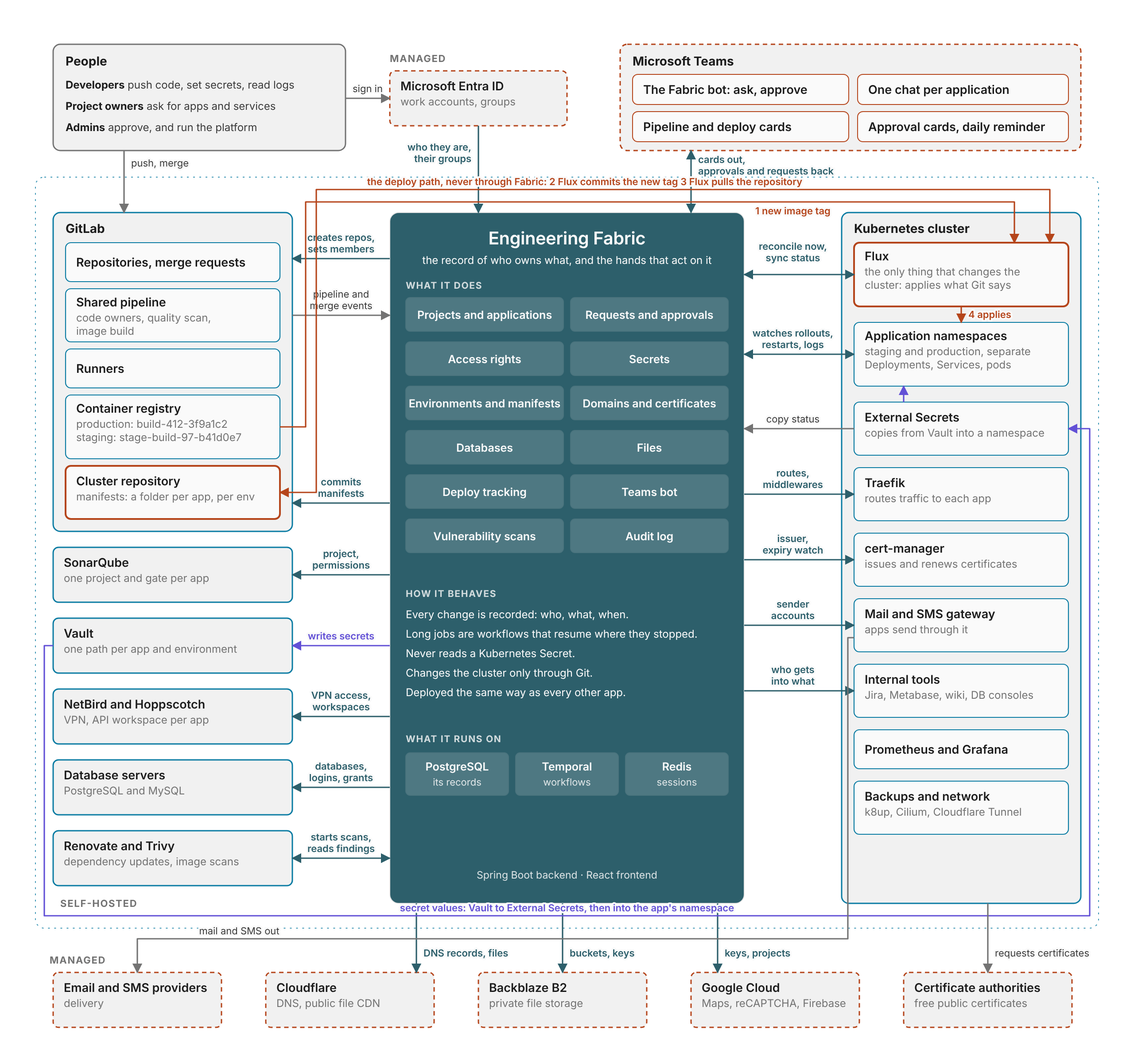
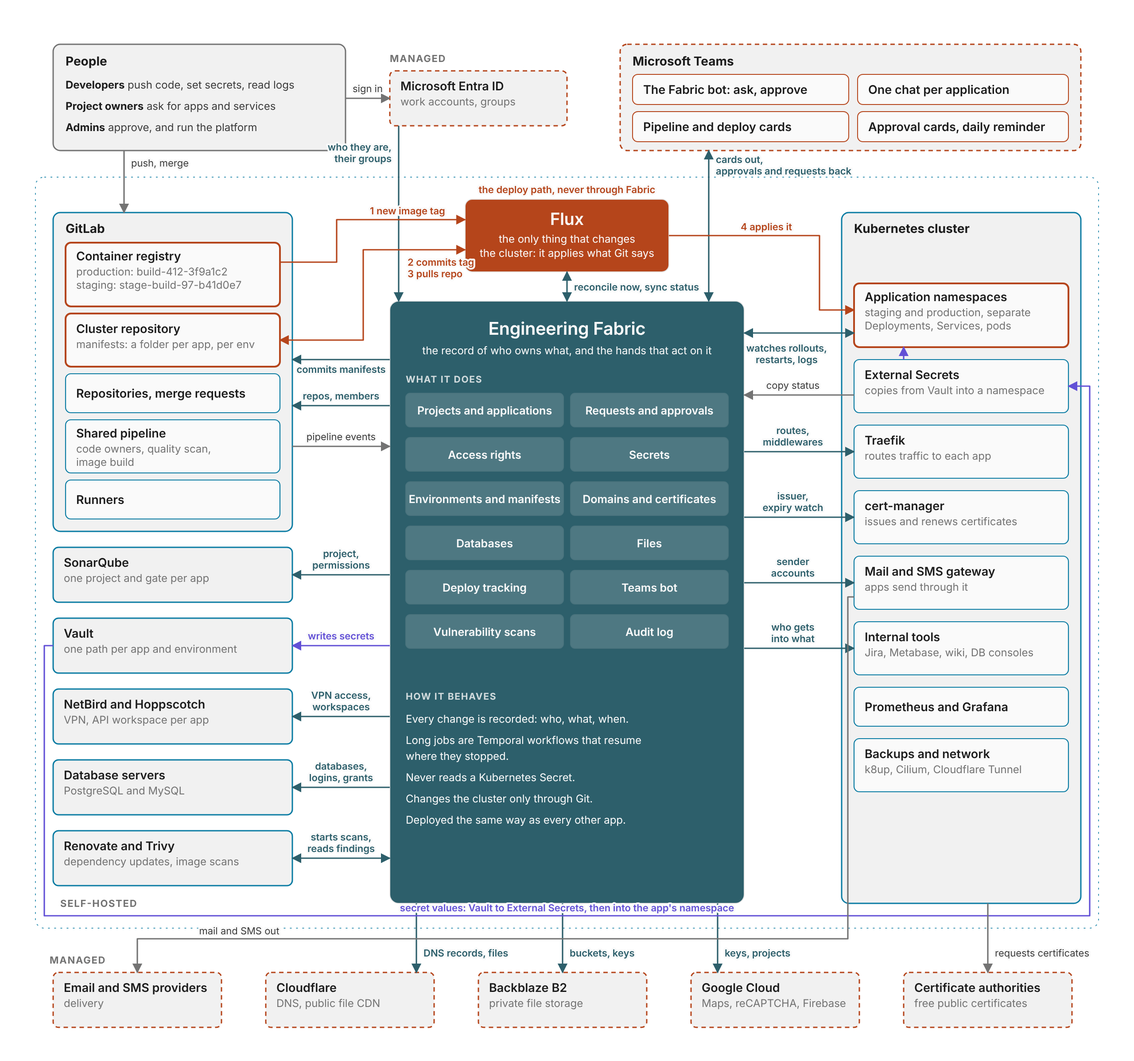
Writing: Flux as its own node between Git and the cluster; drop Fabric's stack from the map
Claude-Session: https://claude.ai/code/session_01SaRwWq1zZFY1QVVTNDxtey

Changed region(s): [[0.0625, 0.1235, 0.9375, 0.7721]]

diff --git a/blog/how-we-deploy-at-cb/index.html b/blog/how-we-deploy-at-cb/index.html
@@ -38,11 +38,11 @@
 <ul>
 <li>The dotted outline is what we host ourselves. Everything outside it, above and below, is a managed service.</li>
 <li>Teal arrows are Fabric doing something: creating a repository, writing a secret, committing a manifest, reading a status. The label says what.</li>
-<li>The rust line is the deploy path. It runs from GitLab's registry to Flux and into the cluster, and it does not touch Fabric at all.</li>
+<li>The rust line is the deploy path, numbered in order. Flux sits on it between GitLab and the cluster: it sees a new image in the registry, commits the tag to the cluster repository, pulls that repository, and applies it. None of that touches Fabric.</li>
 <li>The purple line is the only route a secret value takes: Vault, External Secrets, the application's namespace.</li>
 </ul>
 
-<figure class='dg arch'><div class='dg-wrap'><svg viewBox='0 0 1240 1158' role='img' aria-labelledby='archt archd'><title id='archt'>Architecture: Engineering Fabric and the systems around it</title><desc id='archd'>Developers, project owners and admins sign in through Microsoft Entra ID and are reached in Microsoft Teams. Engineering Fabric, in the centre, creates repositories and sets members in GitLab, creates SonarQube projects, writes secrets to Vault, creates databases, commits manifests to the cluster repository, watches rollouts in Kubernetes, and manages DNS, file storage and API keys at Cloudflare, Backblaze B2 and Google Cloud. Deployments go from GitLab's registry to Flux to the cluster without passing through Fabric. Secret values go from Vault to External Secrets to the application's namespace.</desc><defs><marker id='arch-ink' class='mk-ink' viewBox='0 0 10 10' refX='9' refY='5' markerWidth='7' markerHeight='7' orient='auto-start-reverse'><path d='M0 0L10 5L0 10z'/></marker><marker id='arch-fab' class='mk-fab' viewBox='0 0 10 10' refX='9' refY='5' markerWidth='7' markerHeight='7' orient='auto-start-reverse'><path d='M0 0L10 5L0 10z'/></marker><marker id='arch-dep' class='mk-dep' viewBox='0 0 10 10' refX='9' refY='5' markerWidth='7' markerHeight='7' orient='auto-start-reverse'><path d='M0 0L10 5L0 10z'/></marker><marker id='arch-sec' class='mk-sec' viewBox='0 0 10 10' refX='9' refY='5' markerWidth='7' markerHeight='7' orient='auto-start-reverse'><path d='M0 0L10 5L0 10z'/></marker></defs><rect class='region' x='20' y='180' width='1200' height='848' rx='10'/><text class='grp' x='48' y='1004'>Self-hosted</text><text class='grp' x='420' y='50'>Managed</text><text class='grp' x='36' y='1068'>Managed</text><g class='actor'><rect class='n' x='40' y='30' width='330' height='120' rx='8'/><text class='zt' x='54' y='54'>People</text><text class='pl' x='54' y='80'><tspan class='pb'>Developers</tspan> push code, set secrets, read logs</text><text class='pl' x='54' y='104'><tspan class='pb'>Project owners</tspan> ask for apps and services</text><text class='pl' x='54' y='128'><tspan class='pb'>Admins</tspan> approve, and run the platform</text></g><g class='rent'><rect class='n' x='420' y='60' width='200' height='62' rx='6'/><text class='t' x='432' y='82'>Microsoft Entra ID</text><text x='432' y='99'>work accounts, groups</text></g><g class='rent'><rect class='n' x='680' y='30' width='520' height='120' rx='8'/><text class='zt' x='694' y='54'>Microsoft Teams</text></g><g class='rent in'><rect class='n' x='694' y='64' width='244' height='34' rx='6'/><text class='t' x='706' y='86'>The Fabric bot: ask, approve</text></g><g class='rent in'><rect class='n' x='948' y='64' width='238' height='34' rx='6'/><text class='t' x='960' y='86'>One chat per application</text></g><g class='rent in'><rect class='n' x='694' y='106' width='244' height='34' rx='6'/><text class='t' x='706' y='128'>Pipeline and deploy cards</text></g><g class='rent in'><rect class='n' x='948' y='106' width='238' height='34' rx='6'/><text class='t' x='960' y='128'>Approval cards, daily reminder</text></g><rect class='zone' x='40' y='220' width='270' height='360' rx='8'/><text class='zt' x='54' y='243'>GitLab</text><g class='own in'><rect class='n' x='54' y='254' width='242' height='44' rx='6'/><text class='t' x='66' y='281'>Repositories, merge requests</text></g><g class='own in'><rect class='n' x='54' y='306' width='242' height='60' rx='6'/><text class='t' x='66' y='326'>Shared pipeline</text><text x='66' y='343'>code owners, quality scan,</text><text x='66' y='358'>image build</text></g><g class='own in'><rect class='n' x='54' y='374' width='242' height='44' rx='6'/><text class='t' x='66' y='401'>Runners</text></g><g class='own in'><rect class='n' x='54' y='426' width='242' height='72' rx='6'/><text class='t' x='66' y='446'>Container registry</text><text x='66' y='463'>production: build-412-3f9a1c2</text><text x='66' y='478'>staging: stage-build-97-b41d0e7</text></g><g class='own in dep'><rect class='n' x='54' y='506' width='242' height='60' rx='6'/><text class='t' x='66' y='528'>Cluster repository</text><text x='66' y='545'>manifests: a folder per app, per env</text></g><g class='own'><rect class='n' x='40' y='598' width='270' height='62' rx='6'/><text class='t' x='52' y='620'>SonarQube</text><text x='52' y='637'>one project and gate per app</text></g><g class='own'><rect class='n' x='40' y='678' width='270' height='62' rx='6'/><text class='t' x='52' y='700'>Vault</text><text x='52' y='717'>one path per app and environment</text></g><g class='own'><rect class='n' x='40' y='758' width='270' height='62' rx='6'/><text class='t' x='52' y='780'>NetBird and Hoppscotch</text><text x='52' y='797'>VPN, API workspace per app</text></g><g class='own'><rect class='n' x='40' y='838' width='270' height='62' rx='6'/><text class='t' x='52' y='860'>Database servers</text><text x='52' y='877'>PostgreSQL and MySQL</text></g><g class='own'><rect class='n' x='40' y='918' width='270' height='62' rx='6'/><text class='t' x='52' y='940'>Renovate and Trivy</text><text x='52' y='957'>dependency updates, image scans</text></g><g class='hub'><rect x='420' y='220' width='400' height='780' rx='10'/><text class='t' x='620' y='256' text-anchor='middle'>Engineering Fabric</text><text x='620' y='278' text-anchor='middle'>the record of who owns what, and the hands that act on it</text><text class='hg' x='438' y='306'>What it does</text><rect class='chip' x='438' y='316' width='178' height='38' rx='5'/><text class='ct' x='527' y='340' text-anchor='middle'>Projects and applications</text><rect class='chip' x='624' y='316' width='178' height='38' rx='5'/><text class='ct' x='713' y='340' text-anchor='middle'>Requests and approvals</text><rect class='chip' x='438' y='366' width='178' height='38' rx='5'/><text class='ct' x='527' y='390' text-anchor='middle'>Access rights</text><rect class='chip' x='624' y='366' width='178' height='38' rx='5'/><text class='ct' x='713' y='390' text-anchor='middle'>Secrets</text><rect class='chip' x='438' y='416' width='178' height='38' rx='5'/><text class='ct' x='527' y='440' text-anchor='middle'>Environments and manifests</text><rect class='chip' x='624' y='416' width='178' height='38' rx='5'/><text class='ct' x='713' y='440' text-anchor='middle'>Domains and certificates</text><rect class='chip' x='438' y='466' width='178' height='38' rx='5'/><text class='ct' x='527' y='490' text-anchor='middle'>Databases</text><rect class='chip' x='624' y='466' width='178' height='38' rx='5'/><text class='ct' x='713' y='490' text-anchor='middle'>Files</text><rect class='chip' x='438' y='516' width='178' height='38' rx='5'/><text class='ct' x='527' y='540' text-anchor='middle'>Deploy tracking</text><rect class='chip' x='624' y='516' width='178' height='38' rx='5'/><text class='ct' x='713' y='540' text-anchor='middle'>Teams bot</text><rect class='chip' x='438' y='566' width='178' height='38' rx='5'/><text class='ct' x='527' y='590' text-anchor='middle'>Vulnerability scans</text><rect class='chip' x='624' y='566' width='178' height='38' rx='5'/><text class='ct' x='713' y='590' text-anchor='middle'>Audit log</text><text class='hg' x='438' y='654'>How it behaves</text><text class='hn' x='438' y='678'>Every change is recorded: who, what, when.</text><text class='hn' x='438' y='700'>Long jobs are workflows that resume where they stopped.</text><text class='hn' x='438' y='722'>Never reads a Kubernetes Secret.</text><text class='hn' x='438' y='744'>Changes the cluster only through Git.</text><text class='hn' x='438' y='766'>Deployed the same way as every other app.</text><text class='hg' x='438' y='818'>What it runs on</text><rect class='chip' x='438' y='830' width='116' height='48' rx='5'/><text class='ct' x='496' y='850' text-anchor='middle'>PostgreSQL</text><text class='cs' x='496' y='867' text-anchor='middle'>its records</text><rect class='chip' x='562' y='830' width='116' height='48' rx='5'/><text class='ct' x='620' y='850' text-anchor='middle'>Temporal</text><text class='cs' x='620' y='867' text-anchor='middle'>workflows</text><rect class='chip' x='686' y='830' width='116' height='48' rx='5'/><text class='ct' x='744' y='850' text-anchor='middle'>Redis</text><text class='cs' x='744' y='867' text-anchor='middle'>sessions</text><text class='hs' x='620' y='972' text-anchor='middle'>Spring Boot backend · React frontend</text></g><rect class='zone' x='930' y='220' width='270' height='780' rx='8'/><text class='zt' x='944' y='243'>Kubernetes cluster</text><g class='own in dep'><rect class='n' x='944' y='254' width='242' height='72' rx='6'/><text class='t' x='956' y='274'>Flux</text><text x='956' y='291'>the only thing that changes the</text><text x='956' y='306'>cluster: applies what Git says</text></g><g class='own in'><rect class='n' x='944' y='344' width='242' height='72' rx='6'/><text class='t' x='956' y='364'>Application namespaces</text><text x='956' y='381'>staging and production, separate</text><text x='956' y='396'>Deployments, Services, pods</text></g><g class='own in'><rect class='n' x='944' y='434' width='242' height='60' rx='6'/><text class='t' x='956' y='456'>External Secrets</text><text x='956' y='473'>copies from Vault into a namespace</text></g><g class='own in'><rect class='n' x='944' y='508' width='242' height='60' rx='6'/><text class='t' x='956' y='530'>Traefik</text><text x='956' y='547'>routes traffic to each app</text></g><g class='own in'><rect class='n' x='944' y='582' width='242' height='60' rx='6'/><text class='t' x='956' y='604'>cert-manager</text><text x='956' y='621'>issues and renews certificates</text></g><g class='own in'><rect class='n' x='944' y='656' width='242' height='60' rx='6'/><text class='t' x='956' y='678'>Mail and SMS gateway</text><text x='956' y='695'>apps send through it</text></g><g class='own in'><rect class='n' x='944' y='730' width='242' height='60' rx='6'/><text class='t' x='956' y='752'>Internal tools</text><text x='956' y='769'>Jira, Metabase, wiki, DB consoles</text></g><g class='own in'><rect class='n' x='944' y='804' width='242' height='44' rx='6'/><text class='t' x='956' y='831'>Prometheus and Grafana</text></g><g class='own in'><rect class='n' x='944' y='862' width='242' height='60' rx='6'/><text class='t' x='956' y='884'>Backups and network</text><text x='956' y='901'>k8up, Cilium, Cloudflare Tunnel</text></g><g class='rent'><rect class='n' x='40' y='1078' width='190' height='62' rx='6'/><text class='t' x='52' y='1100'>Email and SMS providers</text><text x='52' y='1117'>delivery</text></g><g class='rent'><rect class='n' x='280' y='1078' width='190' height='62' rx='6'/><text class='t' x='292' y='1100'>Cloudflare</text><text x='292' y='1117'>DNS, public file CDN</text></g><g class='rent'><rect class='n' x='520' y='1078' width='190' height='62' rx='6'/><text class='t' x='532' y='1100'>Backblaze B2</text><text x='532' y='1117'>private file storage</text></g><g class='rent'><rect class='n' x='760' y='1078' width='190' height='62' rx='6'/><text class='t' x='772' y='1100'>Google Cloud</text><text x='772' y='1117'>Maps, reCAPTCHA, Firebase</text></g><g class='rent'><rect class='n' x='1000' y='1078' width='190' height='62' rx='6'/><text class='t' x='1012' y='1100'>Certificate authorities</text><text x='1012' y='1117'>free public certificates</text></g><path class='a a-ink' d='M120 150V220' marker-end='url(#arch-ink)'/><text class='al al-ink' x='128' y='168' text-anchor='start'>push, merge</text><path class='a a-ink' d='M370 91H420' marker-end='url(#arch-ink)'/><text class='al al-ink' x='395' y='84' text-anchor='middle'>sign in</text><path class='a a-fab' d='M520 122V220' marker-end='url(#arch-fab)'/><text class='al al-fab' x='512' y='150' text-anchor='end'>who they are,</text><text class='al al-fab' x='512' y='163' text-anchor='end'>their groups</text><path class='a a-fab' d='M760 150V220' marker-end='url(#arch-fab)' marker-start='url(#arch-fab)'/><text class='al al-fab' x='768' y='164' text-anchor='start'>cards out,</text><text class='al al-fab' x='768' y='177' text-anchor='start'>approvals and requests back</text><path class='a a-fab' d='M420 272H310' marker-end='url(#arch-fab)'/><text class='al al-fab' x='365' y='252' text-anchor='middle'>creates repos,</text><text class='al al-fab' x='365' y='265' text-anchor='middle'>sets members</text><path class='a a-ink' d='M310 336H420' marker-end='url(#arch-ink)'/><text class='al al-ink' x='365' y='316' text-anchor='middle'>pipeline and</text><text class='al al-ink' x='365' y='329' text-anchor='middle'>merge events</text><path class='a a-fab' d='M420 548H310' marker-end='url(#arch-fab)'/><text class='al al-fab' x='365' y='528' text-anchor='middle'>commits</text><text class='al al-fab' x='365' y='541' text-anchor='middle'>manifests</text><path class='a a-fab' d='M420 629H310' marker-end='url(#arch-fab)'/><text class='al al-fab' x='365' y='609' text-anchor='middle'>project,</text><text class='al al-fab' x='365' y='622' text-anchor='middle'>permissions</text><path class='a a-sec' d='M420 709H310' marker-end='url(#arch-sec)'/><text class='al al-sec' x='365' y='702' text-anchor='middle'>writes secrets</text><path class='a a-fab' d='M420 789H310' marker-end='url(#arch-fab)'/><text class='al al-fab' x='365' y='769' text-anchor='middle'>VPN access,</text><text class='al al-fab' x='365' y='782' text-anchor='middle'>workspaces</text><path class='a a-fab' d='M420 869H310' marker-end='url(#arch-fab)'/><text class='al al-fab' x='365' y='849' text-anchor='middle'>databases,</text><text class='al al-fab' x='365' y='862' text-anchor='middle'>logins, grants</text><path class='a a-fab' d='M420 949H310' marker-end='url(#arch-fab)' marker-start='url(#arch-fab)'/><text class='al al-fab' x='365' y='929' text-anchor='middle'>starts scans,</text><text class='al al-fab' x='365' y='942' text-anchor='middle'>reads findings</text><path class='a a-fab' d='M820 290H944' marker-end='url(#arch-fab)' marker-start='url(#arch-fab)'/><text class='al al-fab' x='875' y='262' text-anchor='middle'>reconcile now,</text><text class='al al-fab' x='875' y='275' text-anchor='middle'>sync status</text><path class='a a-fab' d='M820 380H944' marker-end='url(#arch-fab)' marker-start='url(#arch-fab)'/><text class='al al-fab' x='875' y='360' text-anchor='middle'>watches rollouts,</text><text class='al al-fab' x='875' y='373' text-anchor='middle'>restarts, logs</text><path class='a a-ink' d='M944 464H820' marker-end='url(#arch-ink)'/><text class='al al-ink' x='875' y='457' text-anchor='middle'>copy status</text><path class='a a-fab' d='M820 538H944' marker-end='url(#arch-fab)'/><text class='al al-fab' x='875' y='518' text-anchor='middle'>routes,</text><text class='al al-fab' x='875' y='531' text-anchor='middle'>middlewares</text><path class='a a-fab' d='M820 612H944' marker-end='url(#arch-fab)'/><text class='al al-fab' x='875' y='592' text-anchor='middle'>issuer,</text><text class='al al-fab' x='875' y='605' text-anchor='middle'>expiry watch</text><path class='a a-fab' d='M820 686H944' marker-end='url(#arch-fab)'/><text class='al al-fab' x='875' y='666' text-anchor='middle'>sender</text><text class='al al-fab' x='875' y='679' text-anchor='middle'>accounts</text><path class='a a-fab' d='M820 760H944' marker-end='url(#arch-fab)'/><text class='al al-fab' x='875' y='740' text-anchor='middle'>who gets</text><text class='al al-fab' x='875' y='753' text-anchor='middle'>into what</text><path class='a a-fab' d='M450 1000V1078' marker-end='url(#arch-fab)'/><text class='al al-fab' x='458' y='1060' text-anchor='start'>DNS records, files</text><path class='a a-fab' d='M615 1000V1078' marker-end='url(#arch-fab)'/><text class='al al-fab' x='623' y='1060' text-anchor='start'>buckets, keys</text><path class='a a-fab' d='M790 1000V1078' marker-end='url(#arch-fab)'/><text class='al al-fab' x='798' y='1060' text-anchor='start'>keys, projects</text><path class='a a-dep' d='M296 462H325V208H1125V254' marker-end='url(#arch-dep)'/><path class='a a-dep' d='M296 536H337V194H1165V254' marker-end='url(#arch-dep)' marker-start='url(#arch-dep)'/><text class='al al-dep' x='875' y='222' text-anchor='middle'>1 new image tag</text><text class='al al-dep' x='640' y='189' text-anchor='middle'>the deploy path, never through Fabric:   2 Flux commits the new tag   3 Flux pulls the repository</text><path class='a a-dep' d='M1065 326V344' marker-end='url(#arch-dep)'/><text class='al al-dep' x='1073' y='339' text-anchor='start'>4 applies</text><path class='a a-sec' d='M40 709H30V1014H1210V464H1186' marker-end='url(#arch-sec)'/><text class='al al-sec' x='620' y='1009' text-anchor='middle'>secret values: Vault to External Secrets, then into the app&#x27;s namespace</text><path class='a a-sec' d='M1000 434V416' marker-end='url(#arch-sec)'/><path class='a a-ink' d='M1095 1000V1078' marker-end='url(#arch-ink)'/><text class='al al-ink' x='1103' y='1060' text-anchor='start'>requests certificates</text><path class='a a-ink' d='M944 700H937V1040H135V1078' marker-end='url(#arch-ink)'/><text class='al al-ink' x='250' y='1035' text-anchor='middle'>mail and SMS out</text></svg></div><div class='legend'><span><i class='own'></i>self-hosted</span><span><i class='rent'></i>managed</span><span><i class='fab'></i>Fabric makes a change or reads a status</span><span><i class='dep'></i>the deploy path</span><span><i class='sec'></i>secret values</span></div><p class='full'><a href='img/architecture.png'>Open the diagram full size</a></p><figcaption><span class='fignum'>Figure 1.</span> Engineering Fabric and everything it connects. The twelve tiles inside Fabric are its own modules; each one is covered below.</figcaption></figure>
+<figure class='dg arch'><div class='dg-wrap'><svg viewBox='0 0 1240 1158' role='img' aria-labelledby='archt archd'><title id='archt'>Architecture: Engineering Fabric and the systems around it</title><desc id='archd'>Developers, project owners and admins sign in through Microsoft Entra ID and are reached in Microsoft Teams. Engineering Fabric, in the centre, creates repositories and sets members in GitLab, creates SonarQube projects, writes secrets to Vault, creates databases, commits manifests to the cluster repository, watches rollouts in Kubernetes, and manages DNS, file storage and API keys at Cloudflare, Backblaze B2 and Google Cloud. Deployments go from GitLab's registry to Flux to the cluster without passing through Fabric. Secret values go from Vault to External Secrets to the application's namespace.</desc><defs><marker id='arch-ink' class='mk-ink' viewBox='0 0 10 10' refX='9' refY='5' markerWidth='7' markerHeight='7' orient='auto-start-reverse'><path d='M0 0L10 5L0 10z'/></marker><marker id='arch-fab' class='mk-fab' viewBox='0 0 10 10' refX='9' refY='5' markerWidth='7' markerHeight='7' orient='auto-start-reverse'><path d='M0 0L10 5L0 10z'/></marker><marker id='arch-dep' class='mk-dep' viewBox='0 0 10 10' refX='9' refY='5' markerWidth='7' markerHeight='7' orient='auto-start-reverse'><path d='M0 0L10 5L0 10z'/></marker><marker id='arch-sec' class='mk-sec' viewBox='0 0 10 10' refX='9' refY='5' markerWidth='7' markerHeight='7' orient='auto-start-reverse'><path d='M0 0L10 5L0 10z'/></marker></defs><rect class='region' x='20' y='180' width='1200' height='848' rx='10'/><text class='grp' x='48' y='1004'>Self-hosted</text><text class='grp' x='420' y='50'>Managed</text><text class='grp' x='36' y='1068'>Managed</text><g class='actor'><rect class='n' x='40' y='30' width='330' height='120' rx='8'/><text class='zt' x='54' y='54'>People</text><text class='pl' x='54' y='80'><tspan class='pb'>Developers</tspan> push code, set secrets, read logs</text><text class='pl' x='54' y='104'><tspan class='pb'>Project owners</tspan> ask for apps and services</text><text class='pl' x='54' y='128'><tspan class='pb'>Admins</tspan> approve, and run the platform</text></g><g class='rent'><rect class='n' x='420' y='60' width='200' height='62' rx='6'/><text class='t' x='432' y='82'>Microsoft Entra ID</text><text x='432' y='99'>work accounts, groups</text></g><g class='rent'><rect class='n' x='680' y='30' width='520' height='120' rx='8'/><text class='zt' x='694' y='54'>Microsoft Teams</text></g><g class='rent in'><rect class='n' x='694' y='64' width='244' height='34' rx='6'/><text class='t' x='706' y='86'>The Fabric bot: ask, approve</text></g><g class='rent in'><rect class='n' x='948' y='64' width='238' height='34' rx='6'/><text class='t' x='960' y='86'>One chat per application</text></g><g class='rent in'><rect class='n' x='694' y='106' width='244' height='34' rx='6'/><text class='t' x='706' y='128'>Pipeline and deploy cards</text></g><g class='rent in'><rect class='n' x='948' y='106' width='238' height='34' rx='6'/><text class='t' x='960' y='128'>Approval cards, daily reminder</text></g><rect class='zone' x='40' y='220' width='270' height='360' rx='8'/><text class='zt' x='54' y='243'>GitLab</text><g class='own in dep'><rect class='n' x='54' y='254' width='242' height='72' rx='6'/><text class='t' x='66' y='274'>Container registry</text><text x='66' y='291'>production: build-412-3f9a1c2</text><text x='66' y='306'>staging: stage-build-97-b41d0e7</text></g><g class='own in dep'><rect class='n' x='54' y='334' width='242' height='60' rx='6'/><text class='t' x='66' y='356'>Cluster repository</text><text x='66' y='373'>manifests: a folder per app, per env</text></g><g class='own in'><rect class='n' x='54' y='402' width='242' height='44' rx='6'/><text class='t' x='66' y='429'>Repositories, merge requests</text></g><g class='own in'><rect class='n' x='54' y='454' width='242' height='60' rx='6'/><text class='t' x='66' y='474'>Shared pipeline</text><text x='66' y='491'>code owners, quality scan,</text><text x='66' y='506'>image build</text></g><g class='own in'><rect class='n' x='54' y='522' width='242' height='44' rx='6'/><text class='t' x='66' y='549'>Runners</text></g><g class='own'><rect class='n' x='40' y='598' width='270' height='62' rx='6'/><text class='t' x='52' y='620'>SonarQube</text><text x='52' y='637'>one project and gate per app</text></g><g class='own'><rect class='n' x='40' y='678' width='270' height='62' rx='6'/><text class='t' x='52' y='700'>Vault</text><text x='52' y='717'>one path per app and environment</text></g><g class='own'><rect class='n' x='40' y='758' width='270' height='62' rx='6'/><text class='t' x='52' y='780'>NetBird and Hoppscotch</text><text x='52' y='797'>VPN, API workspace per app</text></g><g class='own'><rect class='n' x='40' y='838' width='270' height='62' rx='6'/><text class='t' x='52' y='860'>Database servers</text><text x='52' y='877'>PostgreSQL and MySQL</text></g><g class='own'><rect class='n' x='40' y='918' width='270' height='62' rx='6'/><text class='t' x='52' y='940'>Renovate and Trivy</text><text x='52' y='957'>dependency updates, image scans</text></g><g class='flux'><rect x='505' y='205' width='230' height='82' rx='8'/><text class='t' x='620' y='234' text-anchor='middle'>Flux</text><text x='620' y='254' text-anchor='middle'>the only thing that changes</text><text x='620' y='270' text-anchor='middle'>the cluster: it applies what Git says</text></g><g class='hub'><rect x='420' y='320' width='400' height='680' rx='10'/><text class='t' x='620' y='358' text-anchor='middle'>Engineering Fabric</text><text x='620' y='380' text-anchor='middle'>the record of who owns what, and the hands that act on it</text><text class='hg' x='438' y='412'>What it does</text><rect class='chip' x='438' y='424' width='178' height='38' rx='5'/><text class='ct' x='527' y='448' text-anchor='middle'>Projects and applications</text><rect class='chip' x='624' y='424' width='178' height='38' rx='5'/><text class='ct' x='713' y='448' text-anchor='middle'>Requests and approvals</text><rect class='chip' x='438' y='474' width='178' height='38' rx='5'/><text class='ct' x='527' y='498' text-anchor='middle'>Access rights</text><rect class='chip' x='624' y='474' width='178' height='38' rx='5'/><text class='ct' x='713' y='498' text-anchor='middle'>Secrets</text><rect class='chip' x='438' y='524' width='178' height='38' rx='5'/><text class='ct' x='527' y='548' text-anchor='middle'>Environments and manifests</text><rect class='chip' x='624' y='524' width='178' height='38' rx='5'/><text class='ct' x='713' y='548' text-anchor='middle'>Domains and certificates</text><rect class='chip' x='438' y='574' width='178' height='38' rx='5'/><text class='ct' x='527' y='598' text-anchor='middle'>Databases</text><rect class='chip' x='624' y='574' width='178' height='38' rx='5'/><text class='ct' x='713' y='598' text-anchor='middle'>Files</text><rect class='chip' x='438' y='624' width='178' height='38' rx='5'/><text class='ct' x='527' y='648' text-anchor='middle'>Deploy tracking</text><rect class='chip' x='624' y='624' width='178' height='38' rx='5'/><text class='ct' x='713' y='648' text-anchor='middle'>Teams bot</text><rect class='chip' x='438' y='674' width='178' height='38' rx='5'/><text class='ct' x='527' y='698' text-anchor='middle'>Vulnerability scans</text><rect class='chip' x='624' y='674' width='178' height='38' rx='5'/><text class='ct' x='713' y='698' text-anchor='middle'>Audit log</text><text class='hg' x='438' y='770'>How it behaves</text><text class='hn' x='438' y='796'>Every change is recorded: who, what, when.</text><text class='hn' x='438' y='820'>Long jobs are Temporal workflows that resume</text><text class='hn' x='438' y='838'>where they stopped.</text><text class='hn' x='438' y='862'>Never reads a Kubernetes Secret.</text><text class='hn' x='438' y='886'>Changes the cluster only through Git.</text><text class='hn' x='438' y='910'>Deployed the same way as every other app.</text></g><rect class='zone' x='930' y='220' width='270' height='780' rx='8'/><text class='zt' x='944' y='243'>Kubernetes cluster</text><g class='own in dep'><rect class='n' x='944' y='300' width='242' height='72' rx='6'/><text class='t' x='956' y='320'>Application namespaces</text><text x='956' y='337'>staging and production, separate</text><text x='956' y='352'>Deployments, Services, pods</text></g><g class='own in'><rect class='n' x='944' y='386' width='242' height='60' rx='6'/><text class='t' x='956' y='408'>External Secrets</text><text x='956' y='425'>copies from Vault into a namespace</text></g><g class='own in'><rect class='n' x='944' y='460' width='242' height='60' rx='6'/><text class='t' x='956' y='482'>Traefik</text><text x='956' y='499'>routes traffic to each app</text></g><g class='own in'><rect class='n' x='944' y='534' width='242' height='60' rx='6'/><text class='t' x='956' y='556'>cert-manager</text><text x='956' y='573'>issues and renews certificates</text></g><g class='own in'><rect class='n' x='944' y='608' width='242' height='60' rx='6'/><text class='t' x='956' y='630'>Mail and SMS gateway</text><text x='956' y='647'>apps send through it</text></g><g class='own in'><rect class='n' x='944' y='682' width='242' height='60' rx='6'/><text class='t' x='956' y='704'>Internal tools</text><text x='956' y='721'>Jira, Metabase, wiki, DB consoles</text></g><g class='own in'><rect class='n' x='944' y='756' width='242' height='44' rx='6'/><text class='t' x='956' y='783'>Prometheus and Grafana</text></g><g class='own in'><rect class='n' x='944' y='814' width='242' height='60' rx='6'/><text class='t' x='956' y='836'>Backups and network</text><text x='956' y='853'>k8up, Cilium, Cloudflare Tunnel</text></g><g class='rent'><rect class='n' x='40' y='1078' width='190' height='62' rx='6'/><text class='t' x='52' y='1100'>Email and SMS providers</text><text x='52' y='1117'>delivery</text></g><g class='rent'><rect class='n' x='280' y='1078' width='190' height='62' rx='6'/><text class='t' x='292' y='1100'>Cloudflare</text><text x='292' y='1117'>DNS, public file CDN</text></g><g class='rent'><rect class='n' x='520' y='1078' width='190' height='62' rx='6'/><text class='t' x='532' y='1100'>Backblaze B2</text><text x='532' y='1117'>private file storage</text></g><g class='rent'><rect class='n' x='760' y='1078' width='190' height='62' rx='6'/><text class='t' x='772' y='1100'>Google Cloud</text><text x='772' y='1117'>Maps, reCAPTCHA, Firebase</text></g><g class='rent'><rect class='n' x='1000' y='1078' width='190' height='62' rx='6'/><text class='t' x='1012' y='1100'>Certificate authorities</text><text x='1012' y='1117'>free public certificates</text></g><path class='a a-ink' d='M120 150V220' marker-end='url(#arch-ink)'/><text class='al al-ink' x='128' y='168' text-anchor='start'>push, merge</text><path class='a a-ink' d='M370 91H420' marker-end='url(#arch-ink)'/><text class='al al-ink' x='395' y='84' text-anchor='middle'>sign in</text><path class='a a-fab' d='M430 122V320' marker-end='url(#arch-fab)'/><text class='al al-fab' x='422' y='150' text-anchor='end'>who they are,</text><text class='al al-fab' x='422' y='163' text-anchor='end'>their groups</text><path class='a a-fab' d='M780 150V320' marker-end='url(#arch-fab)' marker-start='url(#arch-fab)'/><text class='al al-fab' x='788' y='164' text-anchor='start'>cards out,</text><text class='al al-fab' x='788' y='177' text-anchor='start'>approvals and requests back</text><text class='al al-dep' x='620' y='198' text-anchor='middle'>the deploy path, never through Fabric</text><path class='a a-dep' d='M296 276H360V228H505' marker-end='url(#arch-dep)'/><text class='al al-dep' x='440' y='222' text-anchor='middle'>1 new image tag</text><path class='a a-dep' d='M296 364H390V262H505' marker-end='url(#arch-dep)' marker-start='url(#arch-dep)'/><text class='al al-dep' x='440' y='280' text-anchor='start'>2 commits tag</text><text class='al al-dep' x='440' y='293' text-anchor='start'>3 pulls repo</text><path class='a a-dep' d='M735 246H905V330H944' marker-end='url(#arch-dep)'/><text class='al al-dep' x='845' y='240' text-anchor='middle'>4 applies it</text><path class='a a-fab' d='M620 320V287' marker-end='url(#arch-fab)' marker-start='url(#arch-fab)'/><text class='al al-fab' x='628' y='308' text-anchor='start'>reconcile now, sync status</text><path class='a a-fab' d='M420 386H310' marker-end='url(#arch-fab)'/><text class='al al-fab' x='365' y='401' text-anchor='middle'>commits manifests</text><path class='a a-fab' d='M420 438H310' marker-end='url(#arch-fab)'/><text class='al al-fab' x='365' y='431' text-anchor='middle'>repos, members</text><path class='a a-ink' d='M310 484H420' marker-end='url(#arch-ink)'/><text class='al al-ink' x='365' y='477' text-anchor='middle'>pipeline events</text><path class='a a-fab' d='M420 629H310' marker-end='url(#arch-fab)'/><text class='al al-fab' x='365' y='609' text-anchor='middle'>project,</text><text class='al al-fab' x='365' y='622' text-anchor='middle'>permissions</text><path class='a a-sec' d='M420 709H310' marker-end='url(#arch-sec)'/><text class='al al-sec' x='365' y='702' text-anchor='middle'>writes secrets</text><path class='a a-fab' d='M420 789H310' marker-end='url(#arch-fab)'/><text class='al al-fab' x='365' y='769' text-anchor='middle'>VPN access,</text><text class='al al-fab' x='365' y='782' text-anchor='middle'>workspaces</text><path class='a a-fab' d='M420 869H310' marker-end='url(#arch-fab)'/><text class='al al-fab' x='365' y='849' text-anchor='middle'>databases,</text><text class='al al-fab' x='365' y='862' text-anchor='middle'>logins, grants</text><path class='a a-fab' d='M420 949H310' marker-end='url(#arch-fab)' marker-start='url(#arch-fab)'/><text class='al al-fab' x='365' y='929' text-anchor='middle'>starts scans,</text><text class='al al-fab' x='365' y='942' text-anchor='middle'>reads findings</text><path class='a a-fab' d='M820 356H944' marker-end='url(#arch-fab)' marker-start='url(#arch-fab)'/><text class='al al-fab' x='868' y='377' text-anchor='middle'>watches rollouts,</text><text class='al al-fab' x='868' y='390' text-anchor='middle'>restarts, logs</text><path class='a a-ink' d='M944 426H820' marker-end='url(#arch-ink)'/><text class='al al-ink' x='875' y='419' text-anchor='middle'>copy status</text><path class='a a-fab' d='M820 490H944' marker-end='url(#arch-fab)'/><text class='al al-fab' x='875' y='470' text-anchor='middle'>routes,</text><text class='al al-fab' x='875' y='483' text-anchor='middle'>middlewares</text><path class='a a-fab' d='M820 564H944' marker-end='url(#arch-fab)'/><text class='al al-fab' x='875' y='544' text-anchor='middle'>issuer,</text><text class='al al-fab' x='875' y='557' text-anchor='middle'>expiry watch</text><path class='a a-fab' d='M820 638H944' marker-end='url(#arch-fab)'/><text class='al al-fab' x='875' y='618' text-anchor='middle'>sender</text><text class='al al-fab' x='875' y='631' text-anchor='middle'>accounts</text><path class='a a-fab' d='M820 712H944' marker-end='url(#arch-fab)'/><text class='al al-fab' x='875' y='692' text-anchor='middle'>who gets</text><text class='al al-fab' x='875' y='705' text-anchor='middle'>into what</text><path class='a a-fab' d='M450 1000V1078' marker-end='url(#arch-fab)'/><text class='al al-fab' x='458' y='1060' text-anchor='start'>DNS records, files</text><path class='a a-fab' d='M615 1000V1078' marker-end='url(#arch-fab)'/><text class='al al-fab' x='623' y='1060' text-anchor='start'>buckets, keys</text><path class='a a-fab' d='M790 1000V1078' marker-end='url(#arch-fab)'/><text class='al al-fab' x='798' y='1060' text-anchor='start'>keys, projects</text><path class='a a-sec' d='M40 709H30V1014H1210V416H1186' marker-end='url(#arch-sec)'/><text class='al al-sec' x='620' y='1009' text-anchor='middle'>secret values: Vault to External Secrets, then into the app&#x27;s namespace</text><path class='a a-sec' d='M1000 386V372' marker-end='url(#arch-sec)'/><path class='a a-ink' d='M1095 1000V1078' marker-end='url(#arch-ink)'/><text class='al al-ink' x='1103' y='1060' text-anchor='start'>requests certificates</text><path class='a a-ink' d='M944 654H937V1040H135V1078' marker-end='url(#arch-ink)'/><text class='al al-ink' x='250' y='1035' text-anchor='middle'>mail and SMS out</text></svg></div><div class='legend'><span><i class='own'></i>self-hosted</span><span><i class='rent'></i>managed</span><span><i class='fab'></i>Fabric makes a change or reads a status</span><span><i class='dep'></i>the deploy path</span><span><i class='sec'></i>secret values</span></div><p class='full'><a href='img/architecture.png'>Open the diagram full size</a></p><figcaption><span class='fignum'>Figure 1.</span> Engineering Fabric and everything it connects. Flux sits between Git and the cluster. The twelve tiles inside Fabric are its own modules; each one is covered below.</figcaption></figure>
 
 <p>Two things in that picture were decisions, not accidents. The first is that Fabric has no arrow into the deploy path. A merge reaches production through GitLab, the registry and Flux, and none of those ask Fabric for anything. Fabric sets things up beforehand and reports afterwards. The second is that Fabric never creates anything in the cluster directly. It commits files to the cluster repository like a person would, and Flux applies them. What Fabric does directly in Kubernetes is read, plus a restart when someone asks for one.</p>
 

diff --git a/blog/blog.css b/blog/blog.css
@@ -305,3 +305,4 @@ details.fold { margin: 0.6rem 0 1rem; max-width: 960px; } details.fold summary {
 .dg .rent.in rect.n { stroke-dasharray: none; stroke-width: 1; }
 .dg .dep.in rect.n { stroke: var(--chart-2); stroke-width: 2; }
 .post figure.cards .two { max-width: 720px; align-items: start; } .post figure.cards img { border: 1px solid var(--mist); border-radius: 8px; }
+.dg .flux rect { fill: var(--chart-2); } .dg .flux text { fill: var(--paper); font-size: 12px; } .dg .flux text.t { fill: var(--paper); font-size: 19px; }
